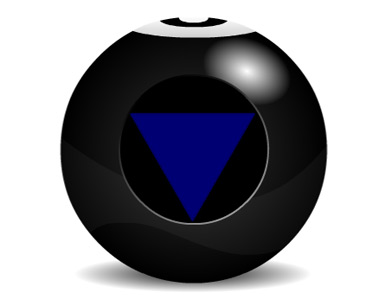
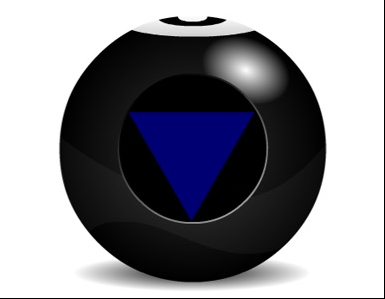
v1.5
Dark mode

diff --git a/index.html b/index.html
@@ -12,8 +12,12 @@
 			h1, h2, h3{
 				font-weight: normal;
 			}
+			body{
+				background-color: #111;
+			}
 			*{
-				font-family: "times new roman";
+				font-family: 'Open Sans', sans-serif;
+				color: white;
 			}
 			a{
 				cursor: pointer;
@@ -21,7 +25,7 @@
 		</style>
 	</head>
 	<body>
-			<nav class="navbar navbar-expand-lg navbar-light bg-light">
+			<nav class="navbar navbar-expand-lg navbar-dark bg-dark">
 	  <a class="navbar-brand" href="">Ben Pitt Stoller Projects</a>
 	  <button class="navbar-toggler" type="button" data-toggle="collapse" data-target="#navbarSupportedContent" aria-controls="navbarSupportedContent" aria-expanded="false" aria-label="Toggle navigation">
 	    <span class="navbar-toggler-icon"></span>
@@ -39,14 +43,14 @@
 	        <div class="dropdown-menu" aria-labelledby="navbarDropdown">
 	          <a class="dropdown-item" href="Games/CircleManeuver.html">Circle Maneuver</a>
 	          <a class="dropdown-item" href="Games/CMLevelEditor.html">Circle Maneuver Level Editor</a>
-	          <a class="dropdown-item" onclick="alert('My Mario Maker ID is 65M-VR5-LMG (Bemjamin).');">My Mario Maker 2 ID</a>
+	          <!-- <a class="dropdown-item" onclick="alert('My Mario Maker ID is 65M-VR5-LMG (Bemjamin).');">My Mario Maker 2 ID</a> -->
 	        </div>
 	      </li>
-	      <li class="nav-item">
+<!-- 	      <li class="nav-item">
 	        <a class="nav-link" href="Videos.html">
 	          Videos
 	        </a>
-	      </li>
+	      </li> -->
 	      <li class="nav-item dropdown">
 	        <a class="nav-link dropdown-toggle" id="navbarDropdown" role="button" data-toggle="dropdown" aria-haspopup="true" aria-expanded="false">
 	          Misc.
@@ -62,7 +66,7 @@
 	</nav><br><br>
 		<center>
 			<h1>Hi, I'm Ben Pitt Stoller.</h1>
-			<h2>I like to project, so here's some of those.</h2>
+			<h2>I like to make things, so here's some of those.</h2>
 		</center>
 	</body>
 </html>

diff --git a/Games/CMLevelEditor.html b/Games/CMLevelEditor.html
@@ -5,6 +5,11 @@
 		<link rel="icon" type="image/png" href="../favicon-16x16.png" sizes="16x16" />
 	<title>Circle Maneuver Level Editor</title>
 	<meta charset="utf-8">
+	<style type="text/css">		
+		body{
+			background-color: #111;
+		}
+	</style>
 </head>
 <body onmousemove="getxymouse(event);" id="body" onload="resize()" onresize="resize()">
 <a href="../index.html" style="cursor: pointer;"><img style="position: absolute; top: 10px; right: 10px; height: 50px; width: 50px;" src="../home.svg"></a>

diff --git a/Misc/LargeNumbers.html b/Misc/LargeNumbers.html
@@ -1503,6 +1503,13 @@ function hundred() {
 };
 	</script>
 	<style type="text/css">
+		body{
+			background-color: #111;
+		}
+		*{
+			font-family: 'Open Sans', sans-serif;
+			color: white;
+		}
 		*{
 			font-weight: normal;
 		}
@@ -1517,7 +1524,7 @@ function hundred() {
 		}
 		input{
 			font-size: 37.5px;
-			font-family: times_new_roman;
+			color: black;
 		}
 		p{
 			font-size: 37.5px;

diff --git a/Misc/ManySidedShapes.html b/Misc/ManySidedShapes.html
@@ -110,6 +110,13 @@
 	end = undefined;
 	p.innerHTML = ans;}</script>
 	<style type="text/css">
+		body{
+			background-color: #111;
+		}
+		*{
+			font-family: 'Open Sans', sans-serif;
+			color: white;
+		}
 		*{
 			font-weight: normal;
 		}
@@ -124,7 +131,7 @@
 		}
 		input{
 			font-size: 37.5px;
-			font-family: times_new_roman;
+			color: black;
 		}
 		p, span{
 			font-size: 37.5px;

diff --git a/Misc/Magic8Ball.html b/Misc/Magic8Ball.html
@@ -63,7 +63,11 @@
     </script>
     <style>
     body{
-      background-color: white;
+      background-color: #111;
+    }
+    *{
+      font-family: 'Open Sans', sans-serif;
+      color: white;
     }
 .container {
 width: 385;
@@ -83,6 +87,7 @@ height: 299;
 }
 img{
   cursor: pointer;
+  border: black 5px solid;
 }
     </style>
     <title>The Ultimate Magic 8 Ball</title>

diff --git a/Games/CircleManeuver.html b/Games/CircleManeuver.html
@@ -7,6 +7,9 @@
 	<meta charset="utf-8">
 	<meta name="viewport" content="width=device-width, initial-scale=0.5">
 	<style>
+		body{
+			background-color: #111;
+		}
 		input{
 			-webkit-appearance: none;
 			border-radius: 0;
